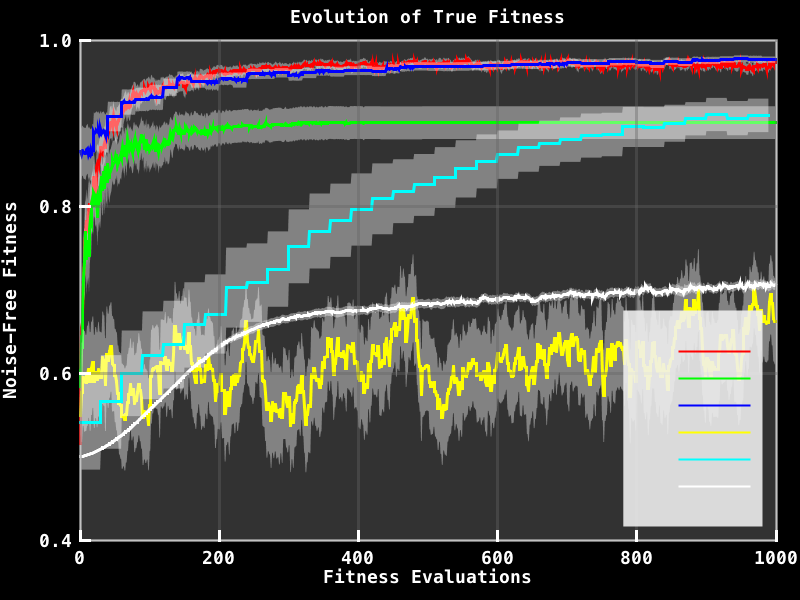
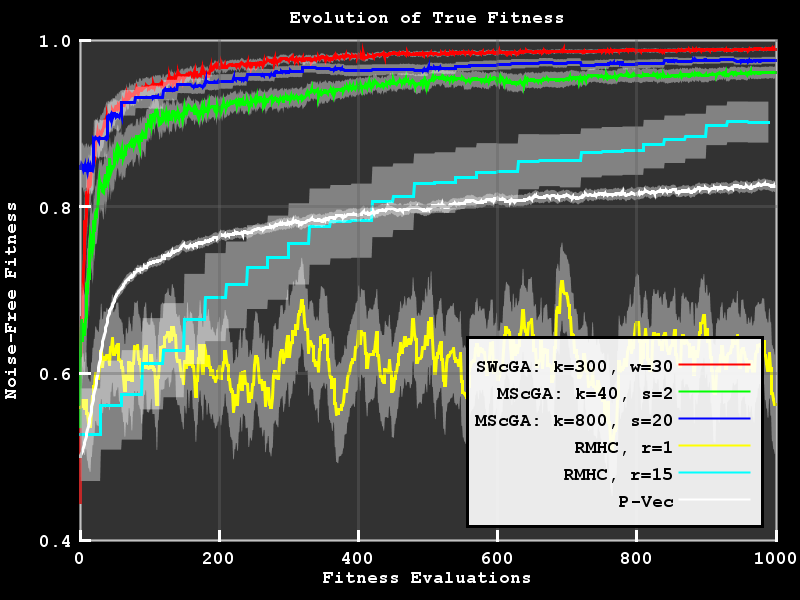
Added line labels to the legend
Also played around with parameter settings on the algorithms.

I can't get the MScGA to perform as well as an optimised SWcGA.

diff --git a/src/plot/LineChart.java b/src/plot/LineChart.java
@@ -207,6 +207,17 @@ public class LineChart extends JComponent {
 
         if (lineGroups == null) return;
 
+        // get the string stat size stats: we need this to get the
+        // size of the bounding box to be correct
+
+        StatSummary stringLengths = new StatSummary();
+        for (LineGroup lineGroup : lineGroups) {
+            if (lineGroup.name != null) {
+                Rectangle2D stringRect = g.getFontMetrics().getStringBounds(lineGroup.name, g);
+                stringLengths.add(stringRect.getWidth());
+            }
+        }
+
         double plotWidth = plotRight - plotLeft;
 
         double lineLength = plotWidth / 10;
@@ -217,22 +228,33 @@ public class LineChart extends JComponent {
         double gap = getFontSize(size) * 1.5;
         double top = plotBottom + gap * (lineGroups.size() + 1);
 
-        double boxWidth = 2 * lineLength;
-        double boxHeight = gap * (lineGroups.size() + 2);
+        double boxWidth = stringLengths.max() + gap + lineLength;
+        double boxHeight = gap * (lineGroups.size() + 1);
         Rectangle2D.Double rect = new Rectangle2D.Double(plotRight - gap/2 - boxWidth, plotBottom + gap/2, boxWidth, boxHeight);
-        g.setColor(new Color(240, 240, 240, 225));
+        g.setColor(new Color(255, 255, 255, 230));
         g.fill(rect);
+        g.setColor(Color.black);
+        g.draw(rect);
 
 
+        top -= gap/2;
         for (LineGroup lineGroup : lineGroups) {
             Path2D path = new Path2D.Double();
-            path.moveTo(plotRight - gap - lineLength, top);
+            double xStart = plotRight - gap - lineLength;
+            path.moveTo( xStart, top);
             path.lineTo(plotRight - gap, top);
+
             top -= gap;
             g.setColor(lineGroup.color);
             // change this to better styles later
             g.setStroke(new BasicStroke(2));
             g.draw(path);
+
+            if (lineGroup.name != null) {
+                Rectangle2D stringRect = g.getFontMetrics().getStringBounds(lineGroup.name, g);
+
+                g.setColor(bg);
+                drawInvertedString(g, lineGroup.name, xStart - stringRect.getWidth() - gap/5,  top + gap/2 - stringRect.getCenterY());            }
         }
         // Rectangle2D rect = new Rectangle2D.Double()
     }

diff --git a/src/evodef/TestEAGraphRunTrials.java b/src/evodef/TestEAGraphRunTrials.java
@@ -42,14 +42,14 @@ public class TestEAGraphRunTrials {
         SimpleRMHC rmhc1 = new SimpleRMHC(1);
         SimpleRMHC rmhc5 = new SimpleRMHC(15);
 
-        int windowLength = 3000;
+        int windowLength = 30;
         CompactSlidingGA slidingGA = new CompactSlidingGA().setHistoryLength(windowLength);
-        slidingGA.K = 5000; // nDims * windo * 2;
+        slidingGA.K = nDims * windowLength / 2;
 
         int nParents = 2;
         CompactBinaryGA cga = new CompactBinaryGA().setParents(nParents);
-        cga.K = nDims / 2; //  * nParents;  // setting from Jialin
-        // cga.K = nDims * nParents;
+        // cga.K = nDims / 2; //  * nParents;  // setting from Jialin
+        cga.K = nDims * nParents;
 
 
         // add them to the test list
@@ -60,7 +60,7 @@ public class TestEAGraphRunTrials {
 
         nParents = 20;
         CompactBinaryGA cga2 = new CompactBinaryGA().setParents(nParents);
-        cga2.K = nDims * nParents * 10;
+        cga2.K = nDims * nParents * 2;
 
         evos.add(cga2);
 
@@ -88,7 +88,7 @@ public class TestEAGraphRunTrials {
             System.out.println();
             // lineChart.addLines(results.linePlots);
 
-            lineChart.addLineGroup(results.getLineGroup().setColor(colors[i]));
+            lineChart.addLineGroup(results.getLineGroup().setColor(colors[i]).setName(results.name));
         }
 
         LineGroup pVec = new LineGroup().setName("P-Vec").setColor(Color.white);

diff --git a/src/evodef/TestEAGraph.java b/src/evodef/TestEAGraph.java
@@ -47,7 +47,7 @@ public class TestEAGraph {
         for (int i=0; i<nTrials; i++) {
             runTrial(ea);
         }
-        return new TestEvoResults(ea.getClass().getSimpleName(), trueFit, linePlots);
+        return new TestEvoResults(ea.toString(), trueFit, linePlots);
     }
 
     public ArrayList<Double> runTrial(EvoAlg ea) {

diff --git a/src/ntuple/CompactBinaryGA.java b/src/ntuple/CompactBinaryGA.java
@@ -41,6 +41,12 @@ public class CompactBinaryGA implements EvoAlg {
     boolean verbose = false;
 
 
+    public String toString() {
+        return String.format("MScGA: k=%d, s=%d", (int) K, nParents);
+    }
+
+
+
     @Override
     public void setInitialSeed(int[] seed) {
         // ignore this for now

diff --git a/src/ntuple/CompactSlidingGA.java b/src/ntuple/CompactSlidingGA.java
@@ -64,6 +64,10 @@ public class CompactSlidingGA implements EvoAlg {
 
     boolean verbose = false;
 
+    public String toString() {
+        return String.format("SWcGA: k=%d, w=%d", (int) K, historyLength);
+    }
+
 
     @Override
     public void setInitialSeed(int[] seed) {

diff --git a/src/ga/SimpleRMHC.java b/src/ga/SimpleRMHC.java
@@ -31,6 +31,10 @@ public class SimpleRMHC implements EvoAlg {
         this.nSamples = nSamples;
     }
 
+    public String toString() {
+        return String.format("RMHC, r=%d", nSamples);
+    }
+
     public void setSamplingRate(int n) {
         this.nSamples = n;
     }

diff --git a/src/evodef/TestEvoResults.java b/src/evodef/TestEvoResults.java
@@ -10,7 +10,7 @@ import java.util.List;
  * Created by simonmarklucas on 10/07/2017.
  */
 public class TestEvoResults {
-    String name;
+    public String name;
 
     // this class is
 
